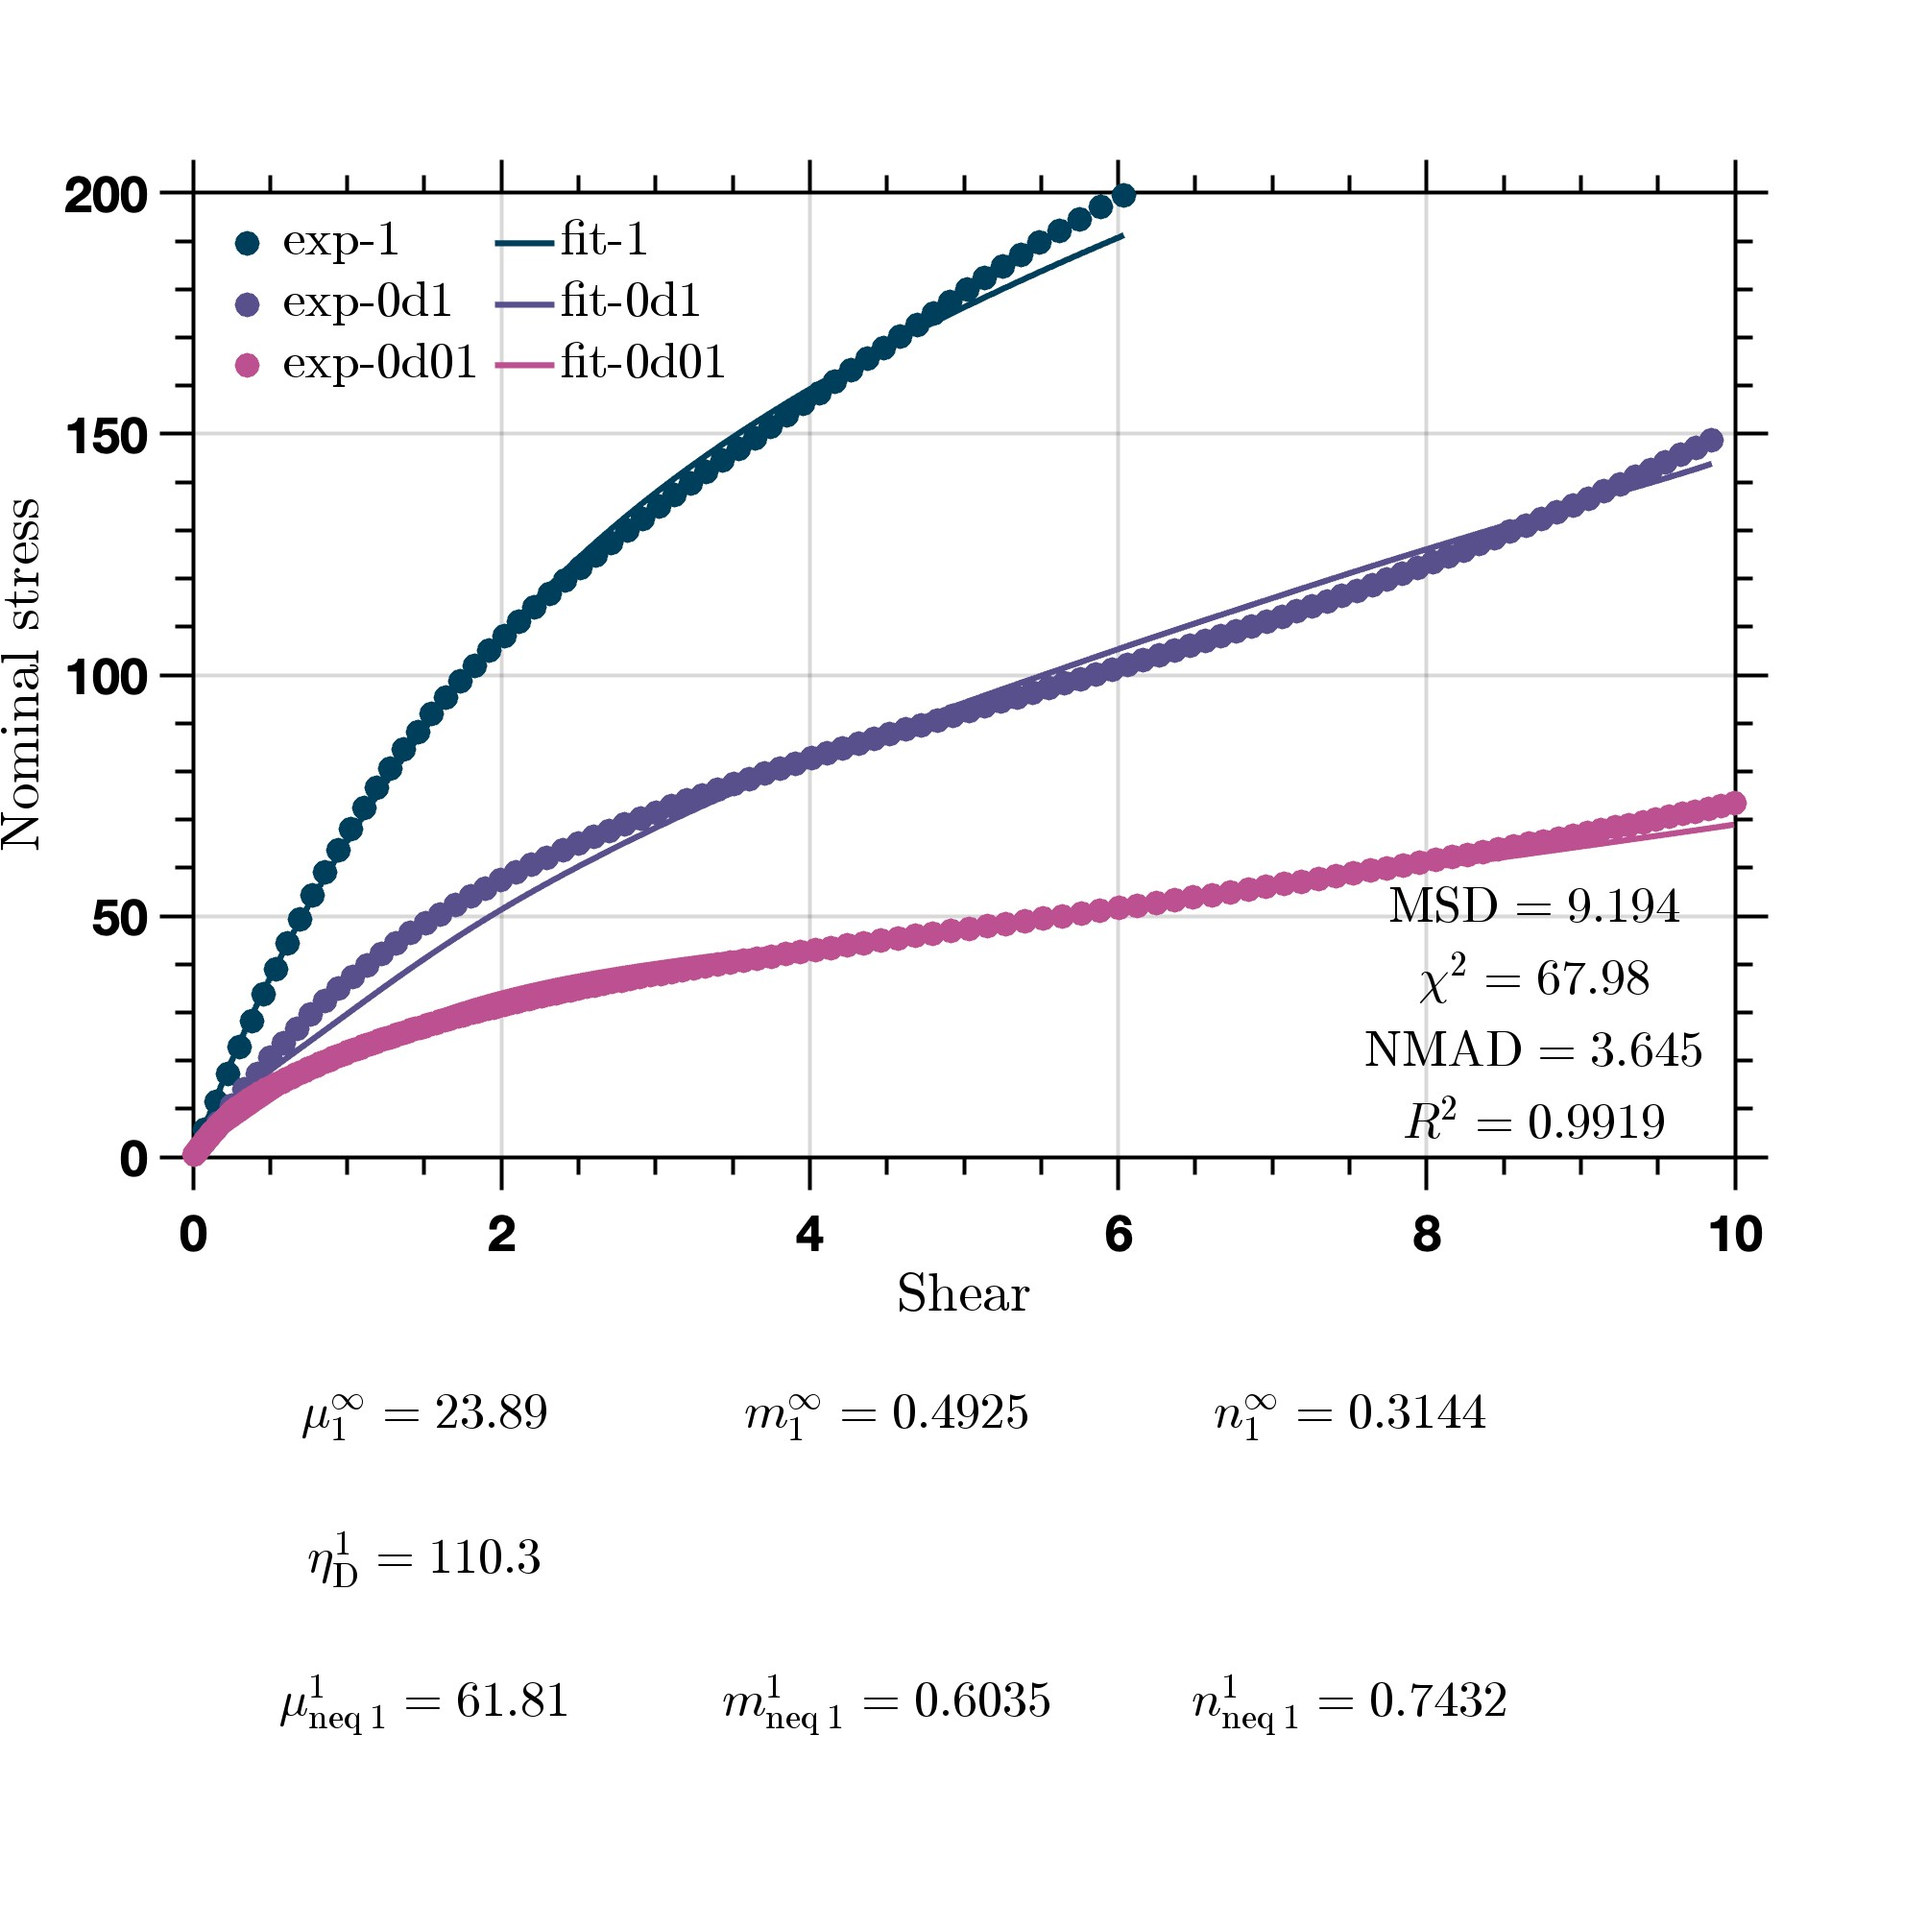
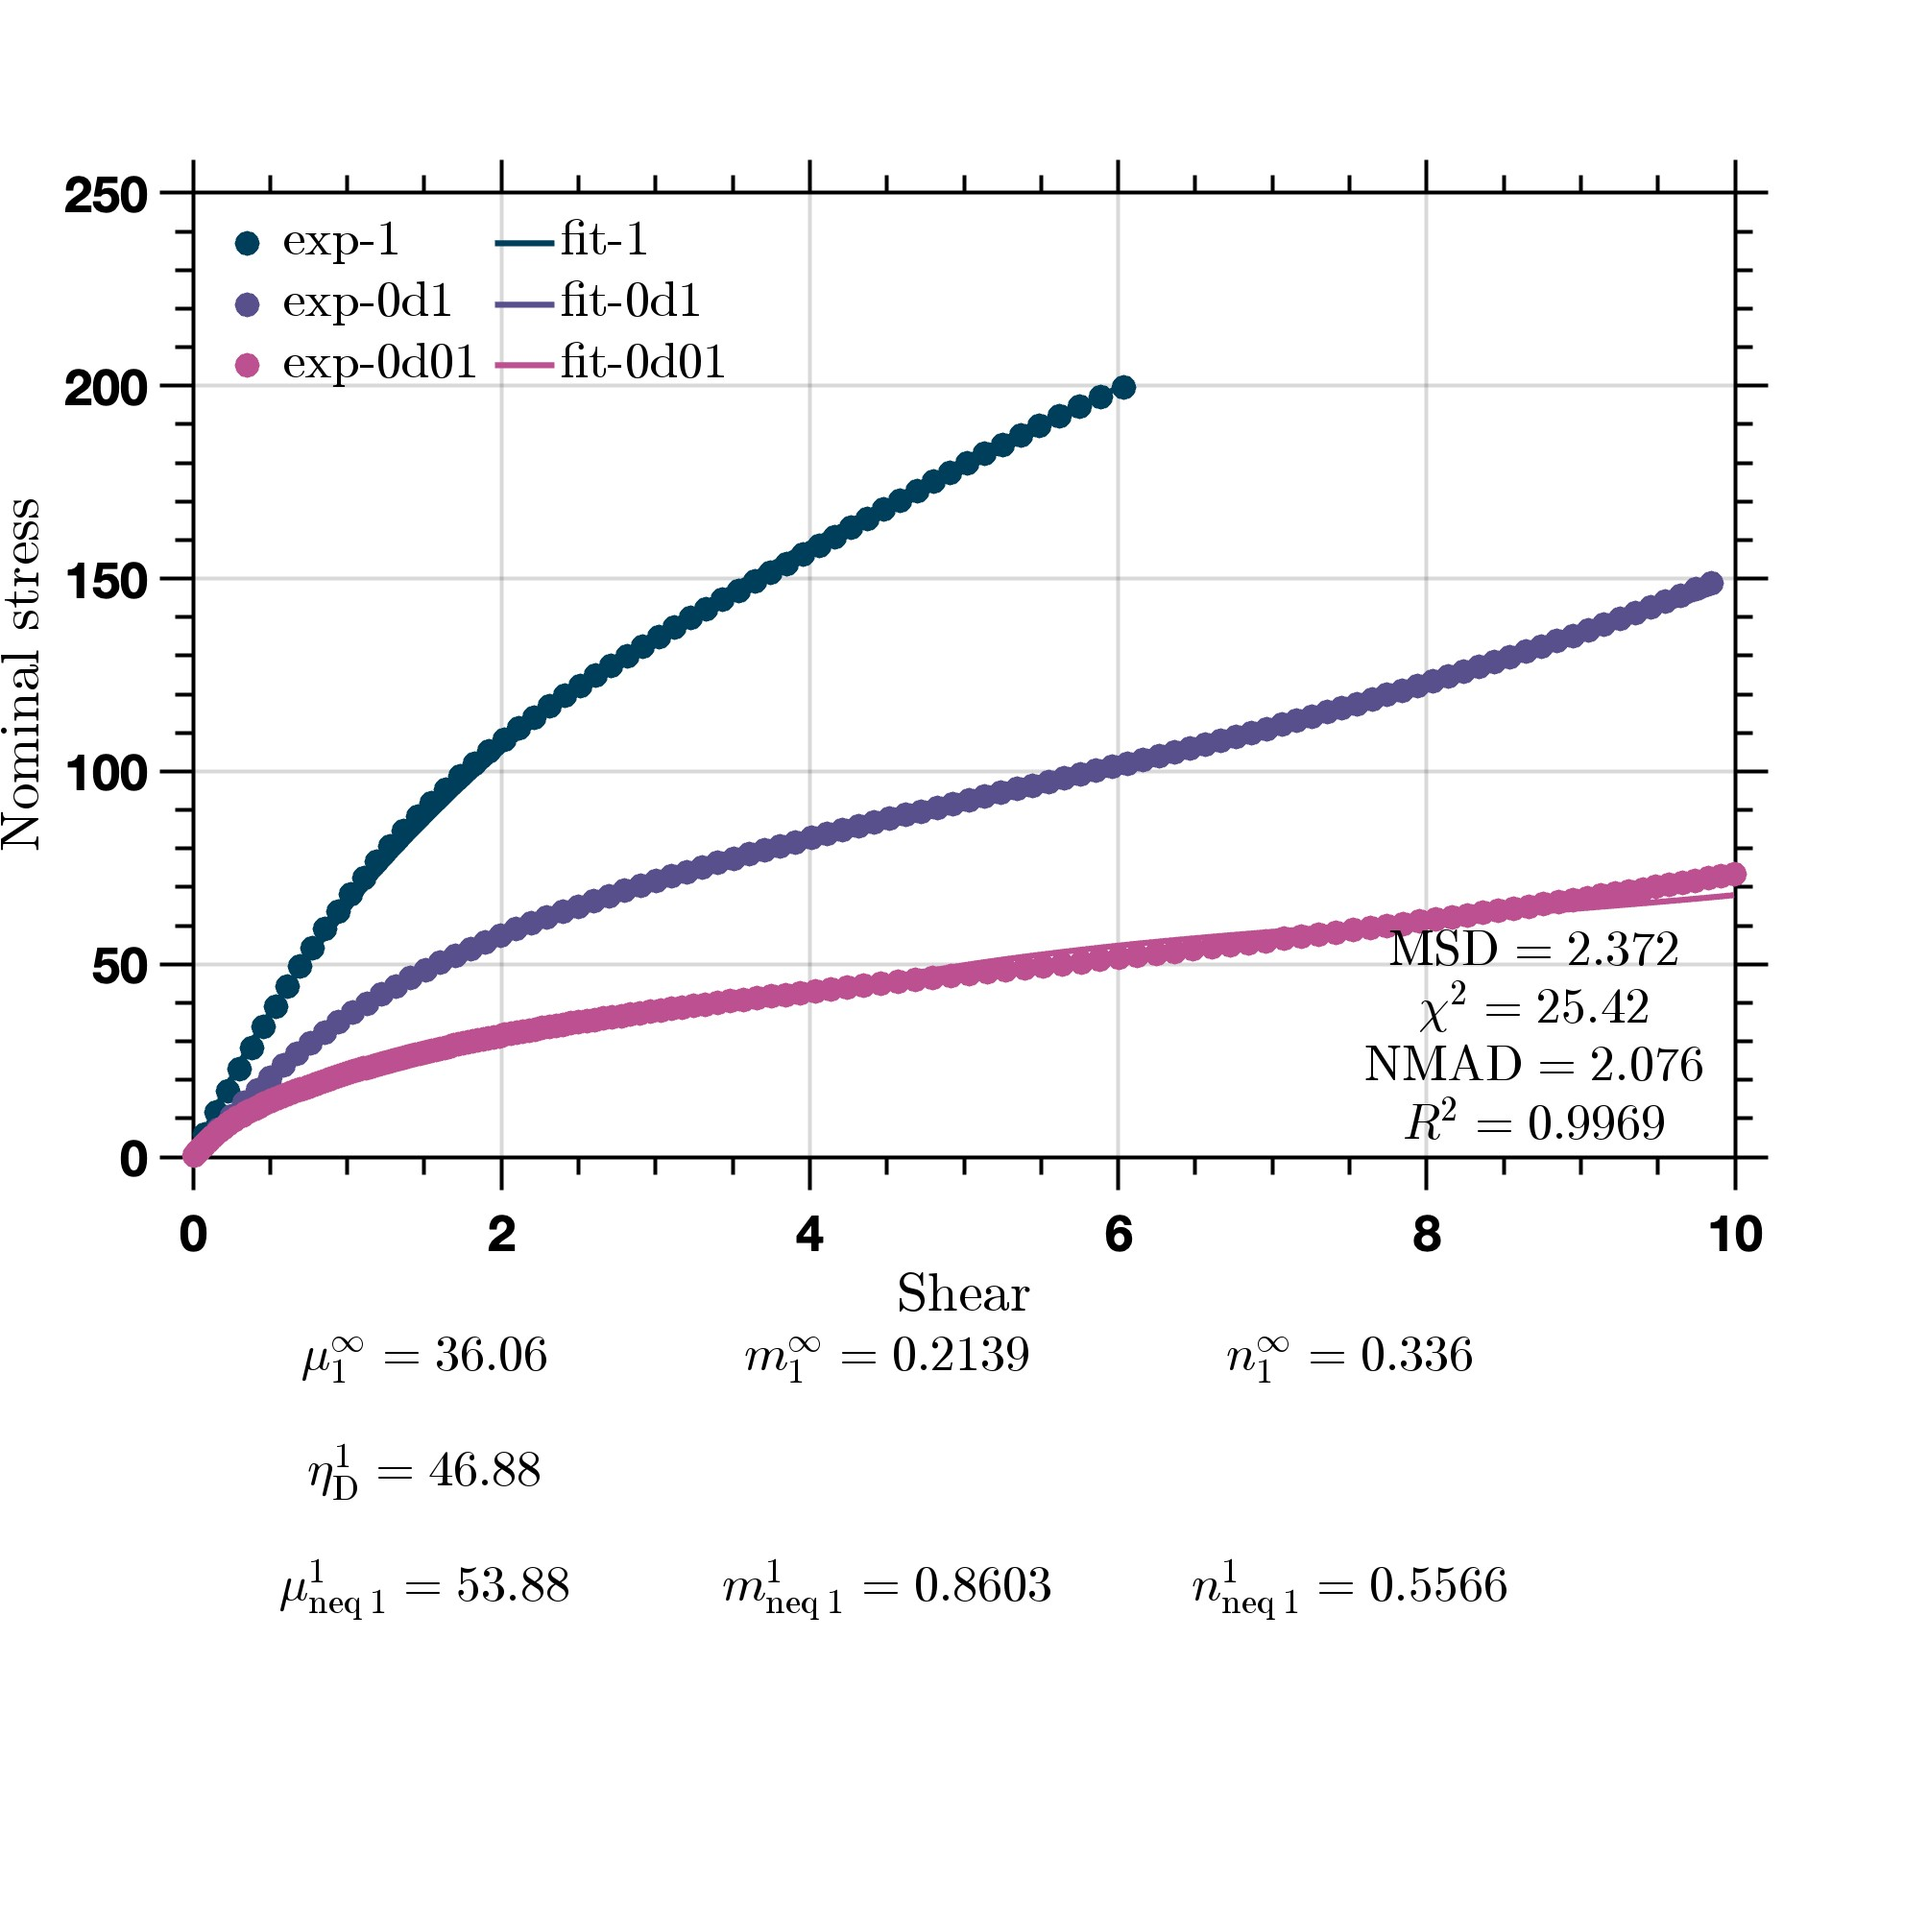
update

diff --git a/additive_CR_non_Newtonian_shear/src/get_Ev_t.m b/additive_CR_non_Newtonian_shear/src/get_Ev_t.m
@@ -1,33 +1,92 @@
 function out = get_Ev_t(mu_neq, m_neq, n_neq, p, alpha, Ft, time)
 out = zeros(size(Ft));
+
 % for ii = 1:length(time)
 %     if ii == 1
 %         dt = time(1);
+%         Ev_old = zeros(3,3);
+%         C_old = eye(3);
 %     else
 %         dt = time(ii) - time(ii-1);
+%         Ev_old = out(:,:,ii-1);
+%         F_old = Ft(:,:,ii-1);
+%         C_old = Ft' * Ft;
 %     end
 %     C_new = Ft(:,:,ii)' * Ft(:,:,ii);
 %     E_new = get_CR_strain(m_neq, n_neq, C_new);
-%     eta_d = get_eta_d(mu_neq, m_neq, n_neq, p, alpha, C_new, E_new);
+%     eta_d = get_eta_d(mu_neq, m_neq, n_neq, p, alpha, C_old, Ev_old);
 %     out(:,:,ii) = (mu_neq * dt / (eta_d + mu_neq * dt)) .* E_new;
-%     if ii == 1
-%         out(:,:,ii) = out(:,:,ii) + (eta_d / (eta_d + mu_neq * dt)) .* zeros(3,3);
-%     else
-%         out(:,:,ii) = out(:,:,ii) + (eta_d / (eta_d + mu_neq * dt)) .* out(:,:,ii-1);
-%     end
+%     out(:,:,ii) = out(:,:,ii) + (eta_d / (eta_d + mu_neq * dt)) .* Ev_old;
 % end
+
+% for ii = 1:length(time)
+%     if ii == 1
+%         dt = time(1);
+%         Ev_old = zeros(3,3);
+%         C_old = eye(3);
+%     else
+%         dt = time(ii) - time(ii-1);
+%         Ev_old = out(:,:,ii-1);
+%         F_old = Ft(:,:,ii-1);
+%         C_old = F_old' * F_old;
+%     end
+%     eta_d = get_eta_d(mu_neq, m_neq, n_neq, p, alpha, C_old, Ev_old);
+%     E_old = get_CR_strain(m_neq, n_neq, C_old);
+%     out(:,:,ii) = mu_neq / eta_d * dt .* (E_old - Ev_old) + Ev_old;
+% end
+
+% for ii = 1:length(time)
+%     if ii == 1
+%         dt = time(1);
+%         C_old = eye(3);
+%         Ev_old = zeros(3,3);
+%     else
+%         dt = time(ii) - time(ii-1);
+%         F_old = Ft(:,:,ii-1);
+%         C_old = F_old' * F_old;
+%         Ev_old = out(:,:,ii-1);
+%     end
+%     eta_d = get_eta_d(mu_neq, m_neq, n_neq, p, alpha, C_old, Ev_old);
+%     E_old = get_CR_strain(m_neq, n_neq, C_old);
+%     out(:,:,ii) = exp(-mu_neq*dt/eta_d) .* Ev_old + exp(-mu_neq*dt/eta_d) * mu_neq / eta_d * dt .* E_old;
+% end
+
+% for ii = 1:length(time)
+%     if ii == 1
+%         dt = time(1);
+%         F_new = Ft(:,:,ii);
+%         C_new = F_new' * F_new;
+%         Ev_old = zeros(3,3);
+%     else
+%         dt = time(ii) - time(ii-1);
+%         F_new = Ft(:,:,ii);
+%         C_new = F_new' * F_new;
+%         Ev_old = out(:,:,ii-1);
+%     end
+%     eta_d = get_eta_d(mu_neq, m_neq, n_neq, p, alpha, C_new, Ev_old);
+%     E_new = get_CR_strain(m_neq, n_neq, C_new);
+%     out(:,:,ii) = exp(-mu_neq*dt/eta_d) .* Ev_old + mu_neq / eta_d * dt .* E_new;
+% end
+
 for ii = 1:length(time)
     if ii == 1
         dt = time(1);
+        C_old = eye(3);
+        F_new = Ft(:,:,ii);
+        C_new = F_new' * F_new;
         Ev_old = zeros(3,3);
     else
         dt = time(ii) - time(ii-1);
+        F_old = Ft(:,:,ii-1);
+        C_old = F_old' * F_old;
+        F_new = Ft(:,:,ii);
+        C_new = F_new' * F_new;
         Ev_old = out(:,:,ii-1);
     end
-    F_new = Ft(:,:,ii);
-    C_new = F_new' * F_new;
+    eta_d = get_eta_d(mu_neq, m_neq, n_neq, p, alpha, C_old, Ev_old);
+    E_old = get_CR_strain(m_neq, n_neq, C_old);
     E_new = get_CR_strain(m_neq, n_neq, C_new);
-    eta_d = get_eta_d(mu_neq, m_neq, n_neq, p, alpha, C_new, Ev_old);
-    out(:,:,ii) = mu_neq / eta_d * dt .* (E_new - Ev_old) + Ev_old;
+    out(:,:,ii) = exp(-mu_neq*dt/eta_d) .* Ev_old + 0.5 * mu_neq / eta_d * dt .* ( exp(-mu_neq*dt/eta_d) .* E_old + E_new );
 end
+
 end

diff --git a/additive_CR_shear/src/get_Ev_t.m b/additive_CR_shear/src/get_Ev_t.m
@@ -16,18 +16,74 @@ out = zeros(size(Ft));
 %         out(:,:,ii) = out(:,:,ii) + (eta_d / (eta_d + mu_neq * dt)) .* out(:,:,ii-1);
 %     end
 % end
+
 % forward Euler
+% for ii = 1:length(time)
+%     if ii == 1
+%         dt = time(1);
+%         Ev_old = zeros(3,3);
+%         C_old = eye(3);
+%     else
+%         dt = time(ii) - time(ii-1);
+%         Ev_old = out(:,:,ii-1);
+%         F_old = Ft(:,:,ii-1);
+%         C_old = F_old' * F_old;
+%     end
+%     E_old = get_CR_strain(m_neq, n_neq, C_old);
+%     out(:,:,ii) = mu_neq / eta_d * dt .* (E_old - Ev_old) + Ev_old;
+% end
+
+% exponential integration
+% for ii = 1:length(time)
+%     if ii == 1
+%         dt = time(1);
+%         C_old = eye(3);
+%         Ev_old = zeros(3,3);
+%     else
+%         dt = time(ii) - time(ii-1);
+%         F_old = Ft(:,:,ii-1);
+%         C_old = F_old' * F_old;
+%         Ev_old = out(:,:,ii-1);
+%     end
+%     E_old = get_CR_strain(m_neq, n_neq, C_old);
+%     out(:,:,ii) = exp(-mu_neq*dt/eta_d) .* Ev_old + exp(-mu_neq*dt/eta_d) * mu_neq / eta_d * dt .* E_old;
+% end
+
+% exponential integration
+% for ii = 1:length(time)
+%     if ii == 1
+%         dt = time(1);
+%         F_new = Ft(:,:,ii);
+%         C_new = F_new' * F_new;
+%         Ev_old = zeros(3,3);
+%     else
+%         dt = time(ii) - time(ii-1);
+%         F_new = Ft(:,:,ii);
+%         C_new = F_new' * F_new;
+%         Ev_old = out(:,:,ii-1);
+%     end
+%     E_new = get_CR_strain(m_neq, n_neq, C_new);
+%     out(:,:,ii) = exp(-mu_neq*dt/eta_d) .* Ev_old + mu_neq / eta_d * dt .* E_new;
+% end
+
+% exponential integration
 for ii = 1:length(time)
     if ii == 1
         dt = time(1);
+        C_old = eye(3);
+        F_new = Ft(:,:,ii);
+        C_new = F_new' * F_new;
         Ev_old = zeros(3,3);
     else
         dt = time(ii) - time(ii-1);
+        F_old = Ft(:,:,ii-1);
+        C_old = F_old' * F_old;
+        F_new = Ft(:,:,ii);
+        C_new = F_new' * F_new;
         Ev_old = out(:,:,ii-1);
     end
-    F_new = Ft(:,:,ii);
-    C_new = F_new' * F_new;
+    E_old = get_CR_strain(m_neq, n_neq, C_old);
     E_new = get_CR_strain(m_neq, n_neq, C_new);
-    out(:,:,ii) = mu_neq / eta_d * dt .* (E_new - Ev_old) + Ev_old;
+    out(:,:,ii) = exp(-mu_neq*dt/eta_d) .* Ev_old + 0.5 * mu_neq / eta_d * dt .* ( exp(-mu_neq*dt/eta_d) .* E_old + E_new );
 end
 end

diff --git a/additive_CR_non_Newtonian_shear/simultaneous_monotonic_shear_driver.m b/additive_CR_non_Newtonian_shear/simultaneous_monotonic_shear_driver.m
@@ -56,7 +56,7 @@ objectiveFunction = @(paras) multi_objective(paras, Ft_1, P_exp_1, time_1,...
                                                     num_eq, num_neq);
 options = optimoptions('lsqnonlin', ...
     'Algorithm', 'levenberg-marquardt', ...
-    'MaxIterations', 2000, ...
+    'MaxIterations', 3000, ...
     'TolFun', 1e-10, ...
     'TolX', 1e-10, ...
     'Display', 'iter-detailed');

diff --git a/additive_CR_shear/simultaneous_monotonic_shear_driver.m b/additive_CR_shear/simultaneous_monotonic_shear_driver.m
@@ -46,7 +46,7 @@ n_eq = [1.0];
 mu_neq = [1.0];
 m_neq = [1.0];
 n_neq = [1.0];
-eta_d = [1.0];
+eta_d = [100.0];
 [paras0, num_eq, num_neq, lb, ub] = array_to_paras(mu_eq, m_eq, n_eq, mu_neq, m_neq, n_neq, eta_d);
 
 objectiveFunction = @(paras) multi_objective(paras, Ft_1, P_exp_1, time_1,...

diff --git a/additive_CR_non_Newtonian_shear/src/get_eta_d.m b/additive_CR_non_Newtonian_shear/src/get_eta_d.m
@@ -1,5 +1,5 @@
 function out = get_eta_d(mu_neq, m_neq, n_neq, p, alpha, C, Ev)
 out = 10.0^p;
 T_neq = get_T_neq(mu_neq, m_neq, n_neq, C, Ev);
-out = out * (get_norm(T_neq))^alpha;
+out = out * (get_norm(T_neq)+0.01)^alpha;
 end
